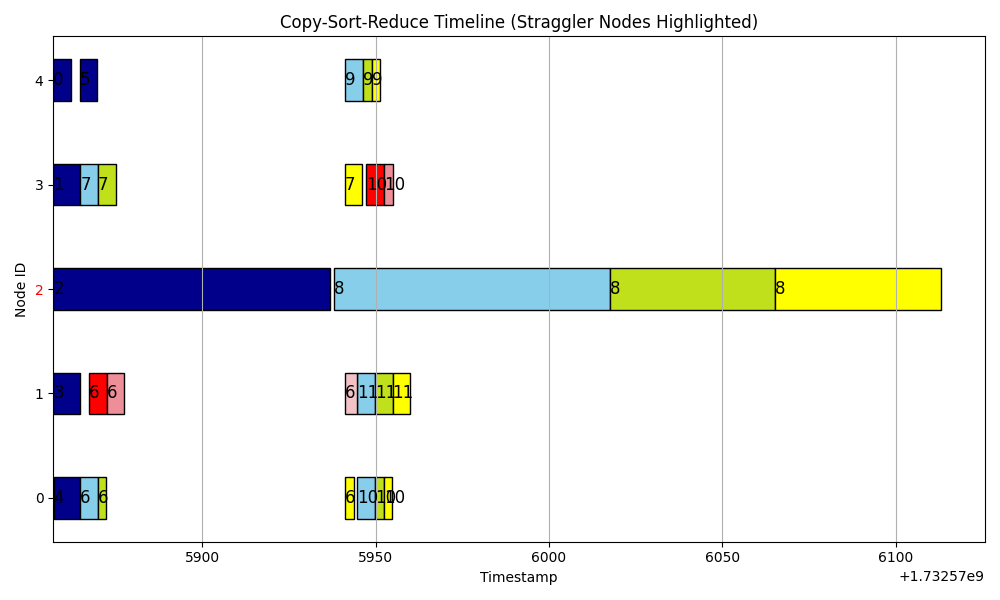
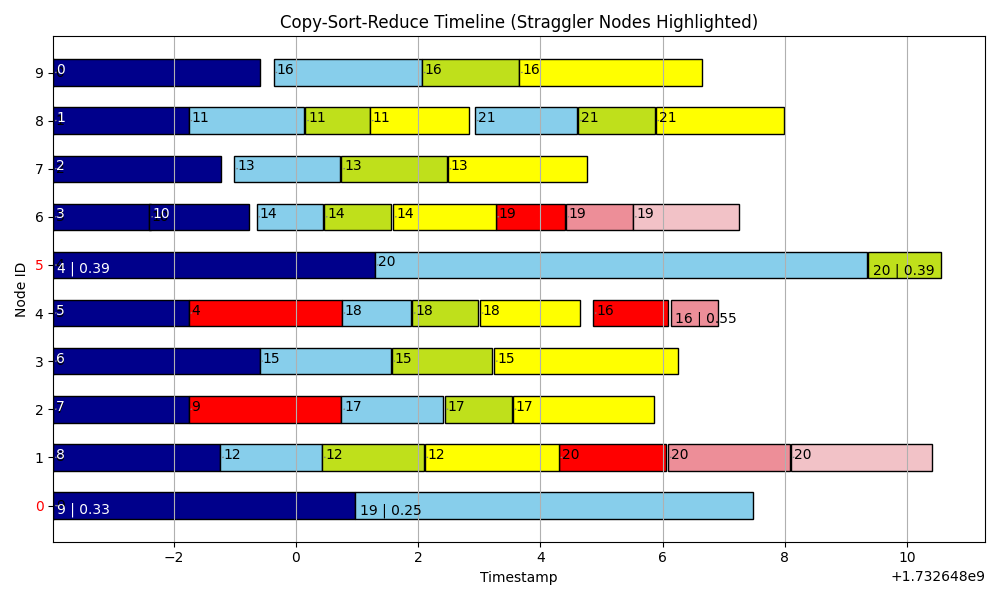
Fix bug in LATE, likely to be final version. plot looking very good

diff --git a/src/main_late.py b/src/main_late.py
@@ -3,7 +3,7 @@ import hadoop_node
 import threading
 # making a node cluster here
 # first number must be even
-node_cluster = hadoop_node.NodeCluster(30, 0.5, 5, 3, 2, 1)
+node_cluster = hadoop_node.NodeCluster(10, 0.5, 10, 8, 6, 5)
 
 # defining the tasks here
 tasks = {"0": {"type": "map"},
@@ -16,16 +16,7 @@ tasks = {"0": {"type": "map"},
          "7": {"type": "map"},
          "8": {"type": "map"},
          "9": {"type": "map"},
-         "10": {"type": "map"},
-         "11": {"type": "map"},
-         "12": {"type": "map"},
-         "13": {"type": "map"},
-         "14": {"type": "map"},
-         "15": {"type": "map"},
-         "16": {"type": "map"},
-         "17": {"type": "map"},
-         "18": {"type": "map"},
-         "19": {"type": "map"}}
+         "10": {"type": "map"}}
 
 # making the scheduler instance here
 sched = late_sched.LateScheduler(tasks, 0.9)

diff --git a/src/main_hd_nonoverlap.py b/src/main_hd_nonoverlap.py
@@ -2,15 +2,12 @@ import hadoop_wo_overlap
 import node_wo_overlap
 import threading
 # making a node cluster here
-node_cluster = node_wo_overlap.NodeCluster(6, 0.5, 10, 8, 6, 5)
+node_cluster = node_wo_overlap.NodeCluster(10, 0.5, 10, 8, 6, 5)
 
+tasks = {}
 # defining the tasks here
-tasks = {"0": {"type": "map"},
-         "1": {"type": "map"},
-         "2": {"type": "map"},
-         "3": {"type": "map"},
-         "4": {"type": "map"},
-         "5": {"type": "map"}}
+for i in range(11):
+    tasks[i] = {"type": "map"}
 
 # making the scheduler instance here
 sched = hadoop_wo_overlap.HadoopScheduler(tasks, 0.9)

diff --git a/src/main_lt_nonoverlap.py b/src/main_lt_nonoverlap.py
@@ -2,15 +2,13 @@ import late_wo_overlap
 import node_wo_overlap
 import threading
 # making a node cluster here
-node_cluster = node_wo_overlap.NodeCluster(6, 0.5, 10, 8, 6, 5)
+node_cluster = node_wo_overlap.NodeCluster(10, 0.5, 10, 8, 6, 5)
 
+tasks = {}
 # defining the tasks here
-tasks = {"0": {"type": "map"},
-         "1": {"type": "map"},
-         "2": {"type": "map"},
-         "3": {"type": "map"},
-         "4": {"type": "map"},
-         "5": {"type": "map"}}
+for i in range(11):
+    tasks[i] = {"type": "map"}
+
 
 # making the scheduler instance here
 sched = late_wo_overlap.LateScheduler(tasks, 0.9)
